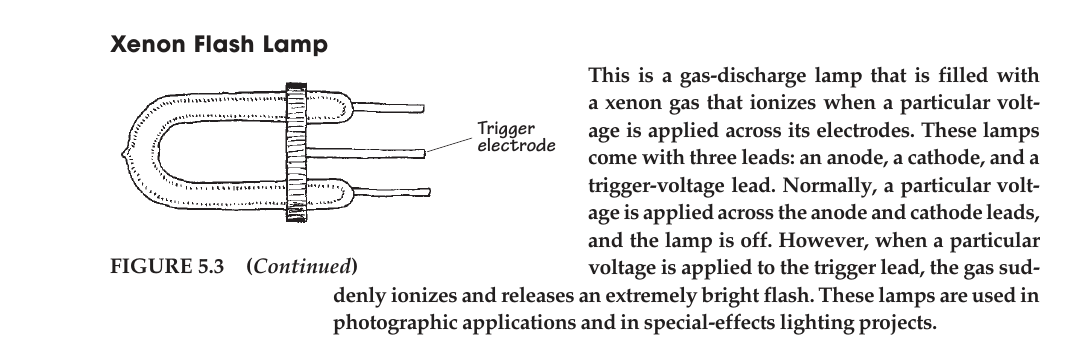
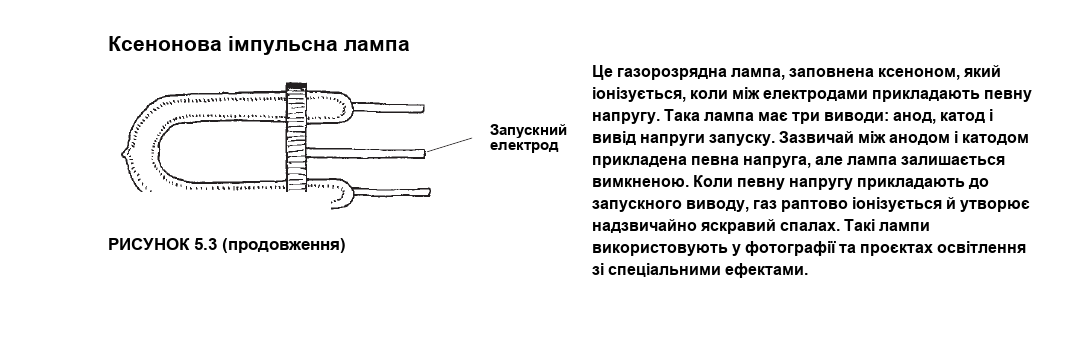
5.2: перевірка перекладу, прибрано додане (підписи до рис. 5.3 і 5.4, опис рисунка), виправлено терміни, переклад рисунків 5.3 і 5.4 повністю, формули (V→U), конспект у структурі 🔹

diff --git a/Електроніка/5.2 Лампи.md b/Електроніка/5.2 Лампи.md
@@ -3,11 +3,11 @@
 Джерело: [[Practical Electronics for Inventors(4th Edition).pdf#page=526|Practical Electronics for Inventors, 4-те видання, с. 497–500 (PDF 526–529)]]. Текст розділу 5.2 закінчується перед заголовком 5.3 на с. 499; пов’язаний із ним рисунок 5.4 надруковано на наступній сторінці.
 
 > [!info] Структура нотатки
-> Спочатку наведено повний переклад у послідовності підручника, включно з рисунком 5.3 та пов’язаним рисунком 5.4. Після завершення перекладу розміщено окремі примітки щодо термінів, безпеки й неточностей оригіналу, а вже потім — [[#Конспект|конспект]], додаткові формули, підказки, самоперевірку та вправи. Розрахункових формул у самому тексті 5.2 немає.
+> Спочатку наведено повний переклад у послідовності підручника, включно з рисунком 5.3 та пов’язаним рисунком 5.4. Рисунки 5.3 і 5.4 перекладено повністю, разом з описами типів ламп, що в оригіналі набрані поруч із малюнками; той самий текст подано й у перекладі вище. Далі йдуть примітки, [[#Формули|формули]], [[#Конспект|конспект]], підказки, самоперевірка та вправи. Розрахункових формул у тексті 5.2 немає — наведено додаткові.
 
 ## Повний переклад розділу
 
-Лампи — це пристрої, які перетворюють електричний струм на світлову енергію. Один зі способів такого перетворення полягає в пропусканні струму через спеціальну дротяну нитку. Коли струм взаємодіє з атомами нитки, вона нагрівається й випромінює фотони. Під час цього процесу утворюються фотони з багатьма різними довжинами хвиль, тому випромінене світло здається білим.
+Лампи — це пристрої, які перетворюють електричний струм на світлову енергію. Один зі способів такого перетворення полягає в пропусканні струму через спеціальну дротяну нитку. Коли струм стикається з атомами нитки, вона нагрівається й випромінює фотони. (Як виявляється, під час цього процесу утворюються фотони з багатьма різними довжинами хвиль, тому випромінене світло здається білим.)
 
 Інший спосіб утворення світла полягає в розміщенні двох електродів на невеликій відстані один від одного всередині скляної колби, заповненої газом. Коли до електродів прикладають напругу, газ іонізується — електрони відриваються від атомів газу — і під час цього процесу випромінюються фотони. На рисунку 5.3 наведено огляд деяких основних типів ламп.
 
@@ -15,41 +15,39 @@
 
 У цих лампах використовується вольфрамова дротяна нитка, яка під час проходження струму розжарюється й утворює біле світло. Нитку розміщено у відкачаній скляній колбі, заповненій газом, наприклад аргоном, криптоном або азотом. Газ допомагає збільшити яскравість лампи та запобігає швидкому перегоранню нитки — що сталося б у середовищі з великою кількістю кисню.
 
-Лампи розжарювання використовують у ліхтариках, для освітлення приміщень та як індикаторні лампи. Вони випускаються в багатьох формах і розмірах та мають різні номінали струму, напруги й сили світла у свічках.
-
-На рисунку позначено вольфрамову нитку, електроди 1 і 2 та ізолятор.
+Лампи розжарювання використовують у ліхтариках, для побутового освітлення та як індикаторні лампи. Вони випускаються в багатьох формах і розмірах та мають різні номінали струму, напруги й сили світла у свічках.
 
 ### Галогенна лампа
 
-Ці лампи подібні до звичайних ламп розжарювання, але дають надзвичайно яскраве світло. На відміну від звичайної лампи розжарювання, за формулюванням оригіналу, нитку покрито з внутрішнього боку кварцової колби. Усередині колби міститься галогенний газ, наприклад бром або йод. Такі лампи використовують у проєкторах, автомобільних фарах, стробоскопах тощо.
+Ці лампи подібні до звичайних ламп розжарювання, але дають надзвичайно яскраве світло. На відміну від звичайної лампи розжарювання, нитку покрито з внутрішнього боку кварцової колби. Усередині колби міститься галогенний газ, наприклад бром або йод. Такі лампи використовують у лампах проєкторів, автомобільних фарах, стробоскопах тощо.
 
 ### Газорозрядна лампа
 
-Ця лампа дає тьмяне, бліде світло внаслідок іонізації молекул неону між двома електродами всередині колби. До газорозрядних належать неонові, ксенонові імпульсні та ртутні лампи.
+Ця лампа дає тьмяне, бліде світло внаслідок іонізації молекул неону між двома електродами всередині колби. До газорозрядних належать неонові, ксенонові імпульсні та ртутні (на парах ртуті) лампи.
 
 Газорозрядні лампи мають властивість раптово вмикатися після досягнення певної мінімальної робочої напруги. Тому їх іноді використовують у схемах запуску та стабілізації напруги. Їх також застосовують як індикаторні лампи та для перевірки домашніх розеток змінного струму.
 
 ### Люмінесцентна лампа
 
-Це лампа у вигляді скляної трубки, заповненої парами ртуті, внутрішня стінка якої вкрита люмінофором. На обох кінцях трубки розміщені розжарювані нитки катода й анода. Коли електрони, випущені розжареним катодом, зіштовхуються з атомами ртуті, виникає ультрафіолетове випромінювання. Потім це випромінювання взаємодіє з люмінесцентним покриттям лампи, унаслідок чого випромінюється видиме світло.
+Це лампа у вигляді скляної трубки, заповненої парами ртуті, внутрішня стінка якої вкрита матеріалом, що флуоресціює (люмінофором). На обох кінцях трубки розміщені розжарювані нитки катода й анода. Коли електрони, випущені розжареним катодом, зіштовхуються з атомами ртуті, виникає ультрафіолетове випромінювання. Потім це випромінювання стикається з люмінесцентним покриттям лампи, унаслідок чого випромінюється видиме світло.
 
-Для запуску розряду всередині такої лампи потрібні допоміжна тліюча лампа з біметалевими контактами та дросель, підключений паралельно катоду й аноду. Це високоефективні лампи, які часто використовують для освітлення приміщень.
+Для запуску розряду всередині такої лампи потрібні допоміжна тліюча лампа з біметалевими контактами та дросель, розміщені паралельно катоду й аноду. Це високоефективні лампи, які часто використовують для побутового освітлення.
 
 ![[Зображення/Розділ 5/Рисунок 5.3 Основні типи ламп.png]]
 
-**Рисунок 5.3. Основні типи ламп:** лампа розжарювання, галогенна, газорозрядна та люмінесцентна.
+**Рисунок 5.3.**
 
 ### Ксенонова імпульсна лампа
 
 Це газорозрядна лампа, заповнена ксеноном, який іонізується, коли між електродами прикладають певну напругу. Така лампа має три виводи: анод, катод і вивід напруги запуску.
 
-Зазвичай між анодом і катодом прикладена певна напруга, але лампа залишається вимкненою. Коли певну напругу прикладають до запускного виводу, газ раптово іонізується й утворює надзвичайно яскравий спалах. Такі лампи використовують у фотографії та освітлювальних пристроях для спеціальних ефектів.
+Зазвичай між анодом і катодом прикладена певна напруга, але лампа залишається вимкненою. Коли певну напругу прикладають до запускного виводу, газ раптово іонізується й утворює надзвичайно яскравий спалах. Такі лампи використовують у фотографії та проєктах освітлення зі спеціальними ефектами.
 
 ![[Зображення/Розділ 5/Рисунок 5.3 Ксенонова імпульсна лампа.png]]
 
-**Рисунок 5.3, продовження.** Ксенонова імпульсна лампа та її запускний електрод.
+**Рисунок 5.3 (продовження).**
 
-### Технічні відомості про електричні лампи
+### Технічні відомості про лампи
 
 Яскравість лампи вимірюють величиною, яку називають середньою сферичною силою світла у свічках — *mean spherical candle power*, або MSCP. Виробники розміщують лампу в центрі інтегрувальної сфери, яка усереднює світловий потік лампи по всій її поверхні.
 
@@ -59,20 +57,16 @@
 
 ![[Зображення/Розділ 5/Рисунок 5.4 Типи ламп розжарювання та патронів.png]]
 
-**Рисунок 5.4. Типи ламп розжарювання, ниток і патронів.**
+**Рисунок 5.4.**
 
-- Колби та цоколі: T-3/4 із дротяними виводами, T-3/4 із двома штирями, мініатюрний фланцевий, мініатюрний із канавкою, мініатюрний гвинтовий, малий гвинтовий і байонетний.
-- Нитки: C-6, C-2R, C-2F, CC-6 і CC-2F.
-- Патрони: двоштирьовий, малий гвинтовий, байонетний і гвинтовий ізольований.
-
-Останніми роками лампи розжарювання стали певною рідкістю. У побутовому освітленні їх майже повністю замінили компактні люмінесцентні лампи, а в деяких європейських країнах їх навіть не продають. Також існує тенденція використовувати для освітлення масиви світлодіодів замість ламп розжарювання — див. наступний розділ.
+Останніми роками лампи розжарювання стали певною рідкістю. У побутовому освітленні їх майже повністю замінили компактні люмінесцентні лампи, а в деяких європейських країнах їх навіть не продають. Також існує тенденція використовувати для освітлення масиви світлодіодів замість ламп розжарювання — див. наступний підрозділ.
 
 У пристроях, де раніше застосовували індикаторні лампи розжарювання, тепер переважають світлодіоди. Світлодіоди мають значно довший строк служби, споживають менше потужності та набагато краще витримують механічні й теплові удари.
 
 ## Примітки до тексту підручника
 
 > [!note] Формулювання про галогенну лампу
-> У книзі сказано, що нитку «покрито з внутрішнього боку кварцової колби». Це формулювання виглядає як редакторська помилка. У типовій галогенній лампі вольфрамова нитка розміщена всередині компактної кварцової колби з галогенним газом; вона не є покриттям внутрішньої стінки.
+> У книзі (і на рисунку 5.3) сказано, що нитку «покрито з внутрішнього боку кварцової колби». Це формулювання виглядає як редакторська помилка. У типовій галогенній лампі вольфрамова нитка розміщена всередині компактної кварцової колби з галогенним газом; вона не є покриттям внутрішньої стінки.
 
 > [!note] Схема люмінесцентної лампи спрощена
 > Опис допоміжної тліючої лампи, біметалевих контактів і дроселя стосується класичної схеми з електромагнітним баластом та стартером. Реальна топологія з’єднання складніша за фразу «дросель, підключений паралельно катоду й аноду», а сучасні світильники можуть використовувати електронний баласт.
@@ -86,67 +80,60 @@
 > [!note] Історичний контекст
 > Твердження про заміну ламп розжарювання компактними люмінесцентними лампами відображає період підготовки цього видання. Його слід читати як історичний опис тенденції, а не як універсальну сучасну рекомендацію.
 
+## Формули
+
+У тексті 5.2 розрахункових формул немає; наведені формули — додаткові (не з підручника).
+
+**Формула** *(додаткова)*: $P=UI$
+**Позначення**: $P$ — електрична потужність, Вт; $U$ — напруга на лампі, В; $I$ — струм, А
+**Фізичний смисл**: скільки електричної потужності споживає лампа.
+
+**Формула** *(додаткова)*: $R_{\text{hot}}\approx\dfrac{U}{I}=\dfrac{U^2}{P}$
+**Позначення**: $R_{\text{hot}}$ — опір розжареної нитки, Ом; $U$, $I$, $P$ — номінальні напруга, струм і потужність
+**Фізичний смисл**: оцінка гарячого опору лампи розжарювання. Холодна нитка має значно менший опір, тому струм у момент увімкнення набагато більший за усталений.
+
+**Формула** *(додаткова)*: $\eta_v=\dfrac{\Phi_v}{P}$
+**Позначення**: $\eta_v$ — світлова ефективність, лм/Вт; $\Phi_v$ — світловий потік, лм; $P$ — споживана потужність, Вт
+**Фізичний смисл**: скільки видимого світла лампа дає на кожен ват; дозволяє порівнювати різні технології.
+
+**Співвідношення з тексту (без формули)**: за сталої температури нитки $\mathrm{MSCP}\propto S$, де $S$ — площа поверхні нитки; подвоєння $S$ подвоює MSCP.
+
 ## Конспект
 
-### Два основні способи утворення світла
+🔹 **Головна ідея розділу.** Лампа перетворює електричну енергію на світло двома способами: нагріванням нитки (розжарювання, галогенна) або іонізацією газу між електродами (газорозрядна, люмінесцентна, ксенонова імпульсна). Нитка дає широкий спектр, тому світло біле; в газі кожен тип лампи має свій механізм і свою сферу застосування.
 
-1. **Теплове випромінювання:** струм нагріває вольфрамову нитку до високої температури, і вона випромінює широкий спектр світла. Приклади — звичайна лампа розжарювання й галогенна лампа.
-2. **Газовий розряд і люмінесценція:** електричне поле іонізує газ; збуджені атоми випромінюють фотони. У люмінесцентній лампі первинне ультрафіолетове випромінювання перетворюється люмінофором на видиме.
+🔹 **Ключові поняття.**
+- **Лампа розжарювання:** вольфрамова нитка у відкачаній колбі з аргоном, криптоном або азотом; газ підвищує яскравість і береже нитку від перегорання (без кисню).
+- **Галогенна лампа:** схожа на розжарювання, але дає дуже яскраве світло; колба кварцова, всередині галоген (бром, йод); проєктори, фари, стробоскопи.
+- **Газорозрядна лампа:** тьмяне бліде світло від іонізації неону між двома електродами; вмикається раптово після досягнення мінімальної робочої напруги, тому застосовується в схемах запуску й стабілізації напруги, як індикатор і для перевірки розеток.
+- **Люмінесцентна лампа:** розряд у парах ртуті дає UV, люмінофор перетворює його на видиме світло; для запуску потрібні допоміжна тліюча лампа з біметалевими контактами та дросель; висока ефективність.
+- **Ксенонова імпульсна лампа:** три виводи (анод, катод, запуск); напруга на аноді й катоді є, але лампа вимкнена, доки імпульс на запускний вивід не іонізує газ — яскравий спалах (фотографія, спецефекти).
+
+🔹 **Технічні характеристики.** Яскравість — MSCP (середня сферична сила світла у свічках), вимірюється в інтегрувальній сфері; залежить від колірної температури нитки, а за сталої температури пропорційна площі нитки. Також важливі номінальні напруга й струм, строк служби, геометрія колби, тип нитки (рис. 5.4: колби, нитки C-6…CC-2F, патрони).
+
+🔹 **Зв’язок з попередніми темами.** Розділ 5.1 пояснив, що світло — це фотони; тут показано, як їх «виробляють» нагрівом і розрядом. Нитка — резистор із температурною залежністю опору (розділ 2), а розряд у газі нагадує пробій і стабілітрон-подібну поведінку (поріг напруги).
+
+🔹 **Практичне застосування.** Освітлення, індикація, ліхтарики, автомобільні фари, проєктори, фотоспалахи, перевірка розеток. Сьогодні лампи розжарювання майже витіснені компактними люмінесцентними лампами й світлодіодами (довший строк служби, менша потужність, стійкість до ударів) — тема наступного підрозділу 5.3.
+
+🔹 **Що запам’ятати.**
+- Розжарювання = нагрів нитки; газорозряд = іонізація газу.
+- Газорозрядна лампа має поріг запалювання; ксенонова — ще й третій, запускний, електрод.
+- Люмінесцентна: електрони → ртуть → UV → люмінофор → видиме світло.
+- MSCP ∝ площі нитки при сталій температурі.
 
 ### Порівняння типів ламп
 
 | Тип | Як виникає світло | Основні частини | Характерна риса | Застосування з книги |
 |---|---|---|---|---|
-| Розжарювання | Нагрівання вольфрамової нитки | Нитка, колба, газ або вакуум, електроди | Широкий спектр, значне нагрівання | Ліхтарики, освітлення, індикатори |
-| Галогенна | Розжарювання нитки в кварцовій колбі з галогеном | Вольфрамова нитка, кварц, бром або йод | Дуже яскрава, компактна, гаряча | Проєктори, фари, стробоскопи |
-| Неонова газорозрядна | Іонізація газу між електродами | Два електроди, неонова колба | Різке запалювання після порогової напруги | Індикатори, запуск, контроль напруги |
-| Люмінесцентна | Розряд у парах ртуті створює UV, люмінофор перетворює його на видиме світло | Трубка, ртуть, люмінофор, електроди, баласт | Вища ефективність за лампу розжарювання | Освітлення приміщень |
-| Ксенонова імпульсна | Короткий інтенсивний газовий розряд | Анод, катод, запускний електрод, ксенон | Дуже яскравий короткий спалах | Фотографія, спецефекти |
+| Розжарювання | Нагрівання вольфрамової нитки | Нитка, колба, газ, електроди | Широкий спектр, значне нагрівання | Ліхтарики, освітлення, індикатори |
+| Галогенна | Розжарювання нитки з галогеном у колбі | Вольфрамова нитка, кварцова колба, бром або йод | Дуже яскрава | Проєктори, фари, стробоскопи |
+| Газорозрядна (неонова) | Іонізація газу між електродами | Два електроди, неон | Різке запалювання після порогової напруги | Індикатори, запуск, стабілізація, перевірка розеток |
+| Люмінесцентна | Розряд у парах ртуті створює UV, люмінофор перетворює його на видиме світло | Трубка, ртуть, люмінофор, нитки катода й анода, тліюча лампа, дросель | Висока ефективність | Освітлення приміщень |
+| Ксенонова імпульсна | Короткий інтенсивний розряд у ксеноні | Анод, катод, запускний вивід | Дуже яскравий спалах | Фотографія, спецефекти |
 
-### Послідовність роботи люмінесцентної лампи
+### Додаткові практичні оцінки
 
-1. Стартер і дросель допомагають запустити розряд.
-2. Електрони рухаються крізь пари ртуті.
-3. Зіткнення з атомами ртуті створюють ультрафіолет.
-4. Ультрафіолет поглинається люмінофором.
-5. Люмінофор випромінює видиме світло.
-
-Коротка схема для запам’ятовування:
-
-$$
-\text{електрична енергія}
-\rightarrow \text{газовий розряд}
-\rightarrow \mathrm{UV}
-\rightarrow \text{люмінофор}
-\rightarrow \text{видиме світло}.
-$$
-
-### Додаткові формули для практичних оцінок
-
-Цих формул немає в тексті розділу 5.2, але вони корисні під час роботи з лампами.
-
-Електрична потужність:
-
-$$
-P=VI.
-$$
-
-Для приблизно резистивної лампи в усталеному режимі:
-
-$$
-R_{\text{hot}}\approx\frac{V}{I}
-=\frac{V^2}{P}.
-$$
-
-Світлова ефективність джерела:
-
-$$
-\eta_v=\frac{\Phi_v}{P},
-$$
-
-де $\Phi_v$ — світловий потік у люменах, $P$ — споживана потужність, а $\eta_v$ вимірюється в $\mathrm{lm/W}$.
-
-У лампи розжарювання холодна нитка має значно менший опір, ніж розігріта, тому струм у момент увімкнення може бути набагато більшим за усталений. Формула $R=V^2/P$ дає саме приблизний гарячий опір за номінального режиму.
+Для приблизно резистивної лампи в усталеному режимі $R_{\text{hot}}=U^2/P$ (див. [[#Формули|формули]]).
 
 ### Не плутай фотометричні величини
 
@@ -191,7 +178,7 @@ $$
 > [!success]- Короткі відповіді
 > 1. Нагрівання нитки та іонізація газу.
 > 2. Вольфрам витримує високу температуру; герметична колба зменшує окиснення й руйнування нитки.
-> 3. Він зменшує випаровування та перегорання нитки й допомагає підтримувати її робочі умови.
+> 3. Він збільшує яскравість лампи та запобігає перегоранню нитки (як це було б у середовищі, багатому на кисень).
 > 4. Вона має компактну кварцову колбу з галогенним газом і дає дуже яскраве світло.
 > 5. Провідність газу різко зростає після досягнення напруги іонізації.
 > 6. Електрична енергія → газовий розряд → ультрафіолет → видиме світло люмінофора.
@@ -207,7 +194,7 @@ $$
 3. За незмінної колірної температури площу поверхні нитки збільшили вдвічі. Як, згідно з текстом книги, зміниться MSCP?
 
 > [!success]- Відповіді до вправ
-> 1. $I=P/V=6/12=0{,}5\,\mathrm A$; $R_{\text{hot}}=V^2/P=12^2/6=24\,\Omega$.
+> 1. $I=P/U=6/12=0{,}5\,\mathrm A$; $R_{\text{hot}}=U^2/P=12^2/6=24\,\Omega$.
 > 2. $\eta_v=\Phi_v/P=800/10=80\,\mathrm{lm/W}$.
 > 3. MSCP також подвоїться.
 
